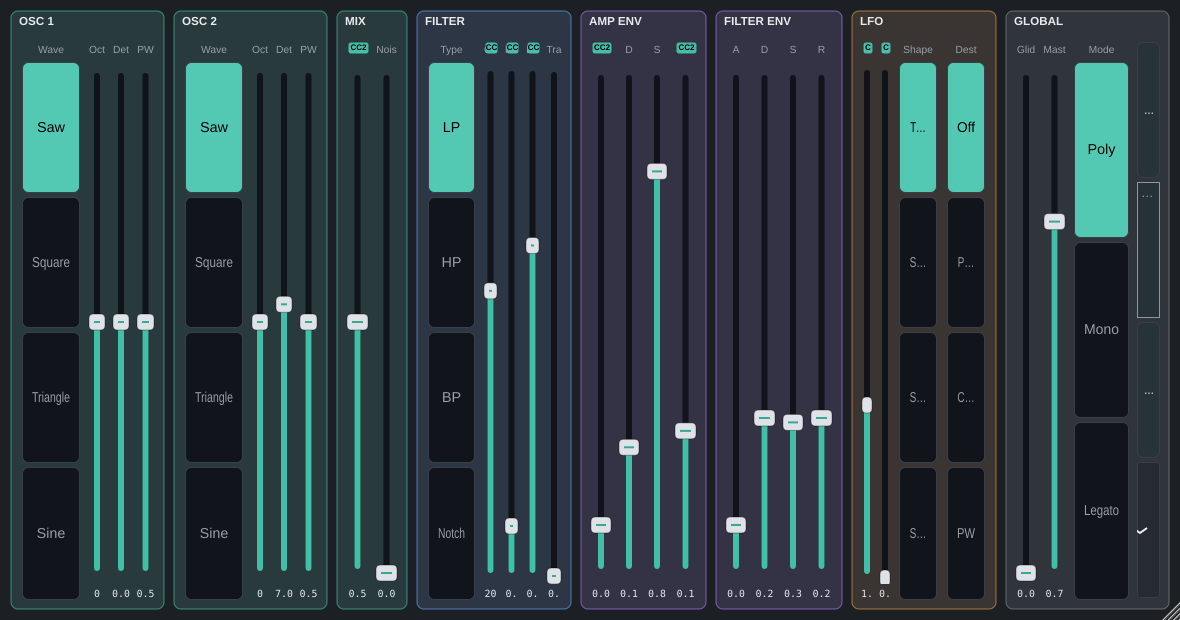
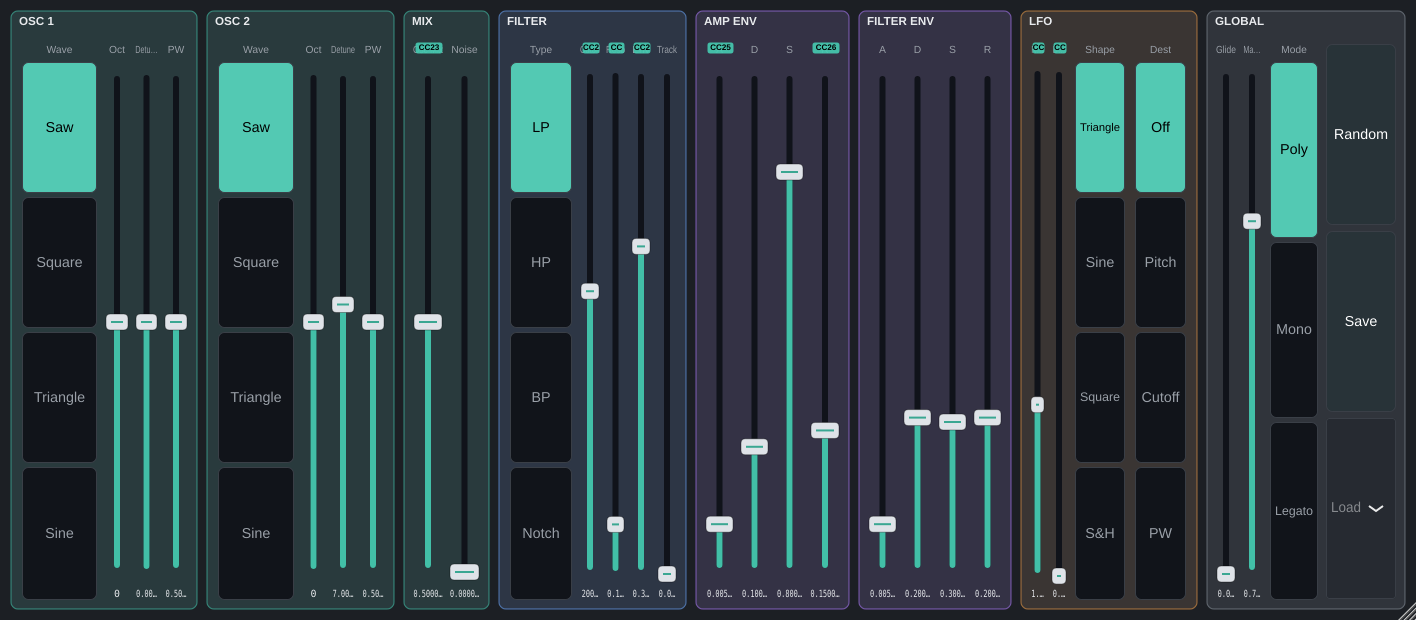
fix(ui): QWERTY focus race (critical), button truncation, wider default
CRITICAL - QWERTY dead / silent at startup: the persistent preset-name
TextEditor claimed keyboard focus and starved the note path (keys typed
into the field, no note-ons -> voices=0). Fixes:
* Removed the persistent text field; preset naming is now a modal Save
  dialog (AlertWindow) that restores editor focus on close.
* Editor deterministically grabs keyboard focus once on screen
  (parentHierarchy/visibility callbacks + async re-grab to win the race),
  not in the constructor.
* Clicking the panel background returns focus to the editor.
* Regression test: no editor descendant may want keyboard focus.

MAJOR - button/label truncation: LookAndFeel drawButtonText shrinks the
font to fit (never clips); fader name + value use drawFittedText; preset
panel widened. No truncated labels at default/fullscreen.

LOW - default startup width +20% (1180 -> 1416), clamped to the display so
it never opens off-screen. Screenshot regenerated.

diff --git a/Source/PluginEditor.cpp b/Source/PluginEditor.cpp
@@ -1,35 +1,32 @@
 #include "PluginEditor.h"
 
-// Preset controls (Random / Save / name / Load) inside the Global section.
-// A small owned panel so the Section's even FlexBox layout treats it as one cell.
+// Preset controls (Random / Save / Load) inside the Global section.
+//
+// No persistent text field lives on the main panel — that would take keyboard
+// focus at startup and starve the QWERTY note path. Naming happens in a modal
+// Save dialog; focus returns to the editor when it closes.
 void VASynthEditor::buildGlobalExtras (Section& s)
 {
     struct PresetPanel : public juce::Component
     {
-        PresetPanel (VASynthProcessor& p, PresetManager& pm) : proc (p), presets (pm)
+        PresetPanel (VASynthProcessor& p, PresetManager& pm, std::function<void()> restore)
+            : proc (p), presets (pm), restoreFocus (std::move (restore))
         {
-            random.setButtonText ("Random");
-            random.setWantsKeyboardFocus (false);
-            random.onClick = [this]
-            {
-                juce::Random rng;
-                presets.randomize (rng);
-            };
-            addAndMakeVisible (random);
+            // Give the panel enough width that button labels never truncate.
+            getProperties().set ("layoutFlex", 3.4);
 
-            name.setTextToShowWhenEmpty ("preset name", VASynthLookAndFeel::dim());
-            name.setWantsKeyboardFocus (true);      // typing here suppresses QWERTY (editor checks focus)
-            addAndMakeVisible (name);
+            for (auto* b : { &random, &save })
+            {
+                b->setWantsKeyboardFocus (false);
+                addAndMakeVisible (b);
+            }
+            random.setButtonText ("Random");
+            random.onClick = [this] { juce::Random rng; presets.randomize (rng); };
 
             save.setButtonText ("Save");
-            save.setWantsKeyboardFocus (false);
-            save.onClick = [this]
-            {
-                if (presets.save (name.getText())) refreshList();
-            };
-            addAndMakeVisible (save);
+            save.onClick = [this] { showSaveDialog(); };
 
-            load.setTextWhenNothingSelected ("Load preset...");
+            load.setTextWhenNothingSelected ("Load");
             load.setWantsKeyboardFocus (false);
             load.onChange = [this]
             {
@@ -38,6 +35,22 @@ void VASynthEditor::buildGlobalExtras (Section& s)
             };
             addAndMakeVisible (load);
             refreshList();
+        }
+
+        void showSaveDialog()
+        {
+            auto* aw = new juce::AlertWindow ("Save Preset", "Preset name:",
+                                              juce::MessageBoxIconType::NoIcon, this);
+            aw->addTextEditor ("name", "");
+            aw->addButton ("Save",   1, juce::KeyPress (juce::KeyPress::returnKey));
+            aw->addButton ("Cancel", 0, juce::KeyPress (juce::KeyPress::escapeKey));
+            aw->enterModalState (true, juce::ModalCallbackFunction::create (
+                [this, aw] (int result)
+                {
+                    if (result == 1 && presets.save (aw->getTextEditorContents ("name")))
+                        refreshList();
+                    if (restoreFocus) restoreFocus();      // QWERTY resumes
+                }), true);                                  // deleteWhenDismissed
         }
 
         void refreshList()
@@ -49,22 +62,22 @@ void VASynthEditor::buildGlobalExtras (Section& s)
 
         void resized() override
         {
-            auto r = getLocalBounds();
-            const int h = juce::jmax (24, r.getHeight() / 4 - 4);
-            random.setBounds (r.removeFromTop (h)); r.removeFromTop (4);
-            name.setBounds   (r.removeFromTop (h)); r.removeFromTop (4);
-            save.setBounds   (r.removeFromTop (h)); r.removeFromTop (4);
+            auto r = getLocalBounds().reduced (0, 2);
+            const int gap = 6;
+            const int h = juce::jmax (30, (r.getHeight() - 2 * gap) / 3);
+            random.setBounds (r.removeFromTop (h)); r.removeFromTop (gap);
+            save.setBounds   (r.removeFromTop (h)); r.removeFromTop (gap);
             load.setBounds   (r.removeFromTop (h));
         }
 
         VASynthProcessor& proc;
         PresetManager& presets;
+        std::function<void()> restoreFocus;
         juce::TextButton random, save;
-        juce::TextEditor name;
         juce::ComboBox load;
     };
 
-    auto panel = std::make_unique<PresetPanel> (proc, presets);
+    auto panel = std::make_unique<PresetPanel> (proc, presets, [this] { restoreQwertyFocus(); });
     s.addAndMakeVisible (*panel);
     presetPanel = std::move (panel);
 }

diff --git a/tests/plugin/test_editor.cpp b/tests/plugin/test_editor.cpp
@@ -13,14 +13,39 @@
  #define VASYNTH_DOCS_DIR "."
 #endif
 
+namespace
+{
+    bool anyDescendantWantsFocus (juce::Component& c)
+    {
+        for (auto* ch : c.getChildren())
+        {
+            if (ch->getWantsKeyboardFocus()) return true;
+            if (anyDescendantWantsFocus (*ch)) return true;
+        }
+        return false;
+    }
+}
+
+TEST_CASE ("no editor descendant wants keyboard focus (QWERTY never starved)", "[plugin][editor][focus]")
+{
+    juce::ScopedJuceInitialiser_GUI juceInit;
+    VASynthProcessor p;
+    std::unique_ptr<juce::AudioProcessorEditor> ed (p.createEditor());
+    ed->setSize (1416, 620);
+    // Only the editor root is the QWERTY receiver; no child (faders, buttons,
+    // combos, preset panel) may claim keyboard focus. A persistent text field
+    // here would type keys instead of playing notes at startup.
+    REQUIRE_FALSE (anyDescendantWantsFocus (*ed));
+}
+
 TEST_CASE ("editor opens, lays out, and closes without crashing", "[plugin][editor]")
 {
     juce::ScopedJuceInitialiser_GUI juceInit;
     VASynthProcessor p;
     std::unique_ptr<juce::AudioProcessorEditor> ed (p.createEditor());
     REQUIRE (ed != nullptr);
-    ed->setSize (1180, 620);
-    REQUIRE (ed->getWidth() == 1180);
+    ed->setSize (1416, 620);
+    REQUIRE (ed->getWidth() == 1416);
     // open/close storm (also exercised by pluginval; leak-checked under ASan)
     ed.reset();
     for (int i = 0; i < 5; ++i) { std::unique_ptr<juce::AudioProcessorEditor> e (p.createEditor()); e->setSize (1000, 560); }
@@ -32,7 +57,7 @@ TEST_CASE ("state round-trips with the editor open (attachments stay in sync)", 
     juce::ScopedJuceInitialiser_GUI juceInit;
     VASynthProcessor src;
     std::unique_ptr<juce::AudioProcessorEditor> ed (src.createEditor());
-    ed->setSize (1180, 620);
+    ed->setSize (1416, 620);
 
     // Set some parameters (as a fader/segmented would, via the attachment path).
     src.apvts.getParameter ("filter_cutoff")->setValueNotifyingHost (0.33f);
@@ -44,7 +69,7 @@ TEST_CASE ("state round-trips with the editor open (attachments stay in sync)", 
 
     VASynthProcessor dst;
     std::unique_ptr<juce::AudioProcessorEditor> ed2 (dst.createEditor());     // editor open during restore
-    ed2->setSize (1180, 620);
+    ed2->setSize (1416, 620);
     dst.setStateInformation (blob.getData(), (int) blob.getSize());
 
     REQUIRE (dst.apvts.getParameter ("filter_cutoff")->getValue() == Catch::Approx (0.33f).margin (1e-4));
@@ -80,11 +105,11 @@ TEST_CASE ("render a layout screenshot to docs/editor.png", "[plugin][editor][sc
     juce::ScopedJuceInitialiser_GUI juceInit;
     VASynthProcessor p;
     std::unique_ptr<juce::AudioProcessorEditor> ed (p.createEditor());
-    ed->setSize (1180, 620);
+    ed->setSize (1416, 620);
 
     auto img = ed->createComponentSnapshot (ed->getLocalBounds(), false, 1.0f);
     REQUIRE (img.isValid());
-    REQUIRE (img.getWidth() == 1180);
+    REQUIRE (img.getWidth() == 1416);
 
     juce::File out (juce::String (VASYNTH_DOCS_DIR) + "/editor.png");
     out.getParentDirectory().createDirectory();

diff --git a/Source/PluginEditor.h b/Source/PluginEditor.h
@@ -31,7 +31,17 @@ public:
 
         setResizable (true, true);
         setResizeLimits (900, 480, 3000, 1600);
-        setSize (1180, 620);
+
+        // Default startup size (20% wider than the original 1180), clamped to the
+        // display so it never opens off-screen on a smaller monitor.
+        int w = 1416, h = 620;
+        if (auto* disp = juce::Desktop::getInstance().getDisplays().getPrimaryDisplay())
+        {
+            const auto area = disp->userArea;
+            w = juce::jmin (w, area.getWidth()  - 40);
+            h = juce::jmin (h, area.getHeight() - 40);
+        }
+        setSize (w, h);
 
         if (isStandalone())
         {
@@ -48,6 +58,18 @@ public:
     }
 
     void paint (juce::Graphics& g) override { g.fillAll (VASynthLookAndFeel::panel()); }
+
+    // Clicking the panel background returns keyboard focus to the editor so
+    // QWERTY resumes (controls refuse focus, so this only fires on the backdrop).
+    void mouseDown (const juce::MouseEvent&) override { grabQwertyFocus(); }
+
+    // Deterministically own keyboard focus once we're actually on screen — not
+    // in the constructor (too early). Async re-grab defeats any startup race.
+    void parentHierarchyChanged() override { grabQwertyFocus(); }
+    void visibilityChanged() override      { grabQwertyFocus(); }
+
+    // Restores QWERTY focus after a transient dialog (e.g. Save-preset) closes.
+    void restoreQwertyFocus() { grabQwertyFocus(); }
 
     void resized() override
     {
@@ -69,8 +91,6 @@ public:
         return false;
     }
 
-    void parentHierarchyChanged() override { if (isStandalone() && isShowing()) grabKeyboardFocus(); }
-
     bool keyStateChanged (bool) override
     {
         if (! isStandalone()) return false;
@@ -85,6 +105,18 @@ private:
     struct SectionEntry { std::unique_ptr<Section> panel; float flex; };
 
     bool isStandalone() const { return proc.wrapperType == juce::AudioProcessor::wrapperType_Standalone; }
+
+    void grabQwertyFocus()
+    {
+        if (! isStandalone() || ! isShowing()) return;
+        grabKeyboardFocus();
+        // Re-grab after the message loop settles, to win any startup focus race
+        // (e.g. a dialog or child that momentarily grabbed focus).
+        juce::MessageManager::callAsync ([safe = juce::Component::SafePointer<VASynthEditor> (this)]
+        {
+            if (safe != nullptr && safe->isShowing()) safe->grabKeyboardFocus();
+        });
+    }
 
     Section& addSection (juce::String title, juce::Colour tint, float flex)
     {

diff --git a/Source/UI/VASynthLookAndFeel.h b/Source/UI/VASynthLookAndFeel.h
@@ -73,6 +73,23 @@ public:
         g.fillRect (thumb.reduced (5.0f, 0.0f).withHeight (2.0f).withY (thumb.getCentreY() - 1.0f));
     }
 
+    // Fit button text to the button width (shrink the font rather than truncate),
+    // so no label is ever clipped at any size.
+    void drawButtonText (juce::Graphics& g, juce::TextButton& b, bool, bool) override
+    {
+        auto area = b.getLocalBounds().reduced (5, 2);
+        auto text = b.getButtonText();
+        auto font = getTextButtonFont (b, b.getHeight());
+        const float w = juce::GlyphArrangement::getStringWidth (font, text);
+        if (w > (float) area.getWidth() && w > 0.0f)
+            font.setHeight (juce::jmax (8.0f, font.getHeight() * (float) area.getWidth() / w));
+        g.setFont (font);
+        g.setColour (b.findColour (b.getToggleState() ? juce::TextButton::textColourOnId
+                                                      : juce::TextButton::textColourOffId)
+                        .withMultipliedAlpha (b.isEnabled() ? 1.0f : 0.5f));
+        g.drawText (text, area, juce::Justification::centred, false);
+    }
+
     JUCE_DECLARE_NON_COPYABLE_WITH_LEAK_DETECTOR (VASynthLookAndFeel)
 };
 

diff --git a/Source/UI/Widgets.h b/Source/UI/Widgets.h
@@ -132,13 +132,13 @@ public:
     {
         g.setColour (VASynthLookAndFeel::dim());
         g.setFont (juce::Font (juce::FontOptions (11.5f)));
-        g.drawText (name, getLocalBounds().removeFromTop (16), juce::Justification::centred, false);
+        g.drawFittedText (name, getLocalBounds().removeFromTop (16), juce::Justification::centred, 1);
 
-        // live value readout with the parameter's own units/text
+        // live value readout with the parameter's own units/text (auto-fit width)
         g.setColour (VASynthLookAndFeel::ink());
         g.setFont (juce::Font (juce::FontOptions (juce::Font::getDefaultMonospacedFontName(), 11.5f, juce::Font::plain)));
         const juce::String text = param != nullptr ? param->getCurrentValueAsText() : juce::String();
-        g.drawText (text, getLocalBounds().removeFromBottom (16), juce::Justification::centred, false);
+        g.drawFittedText (text, getLocalBounds().removeFromBottom (16), juce::Justification::centred, 1);
 
         paintLearnDecorations (g);
     }
